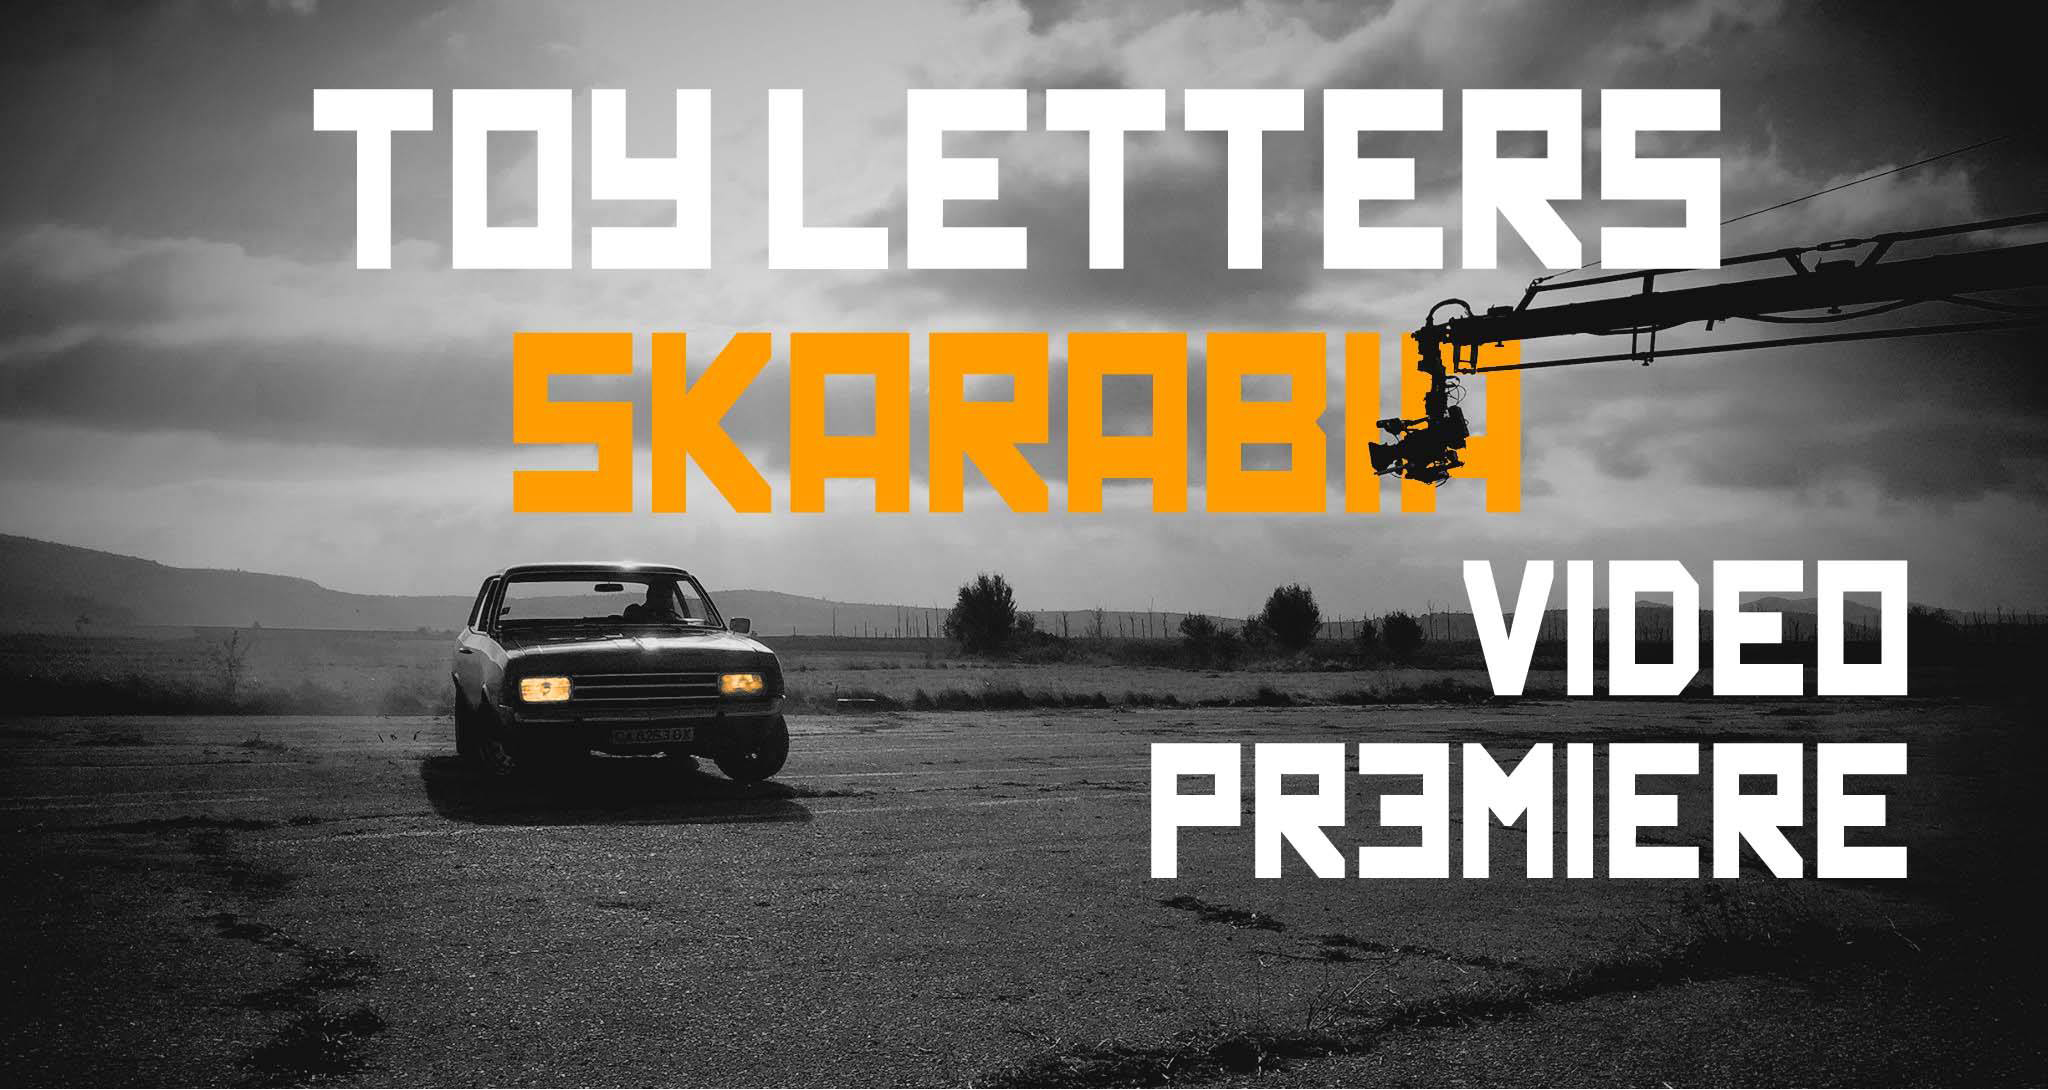
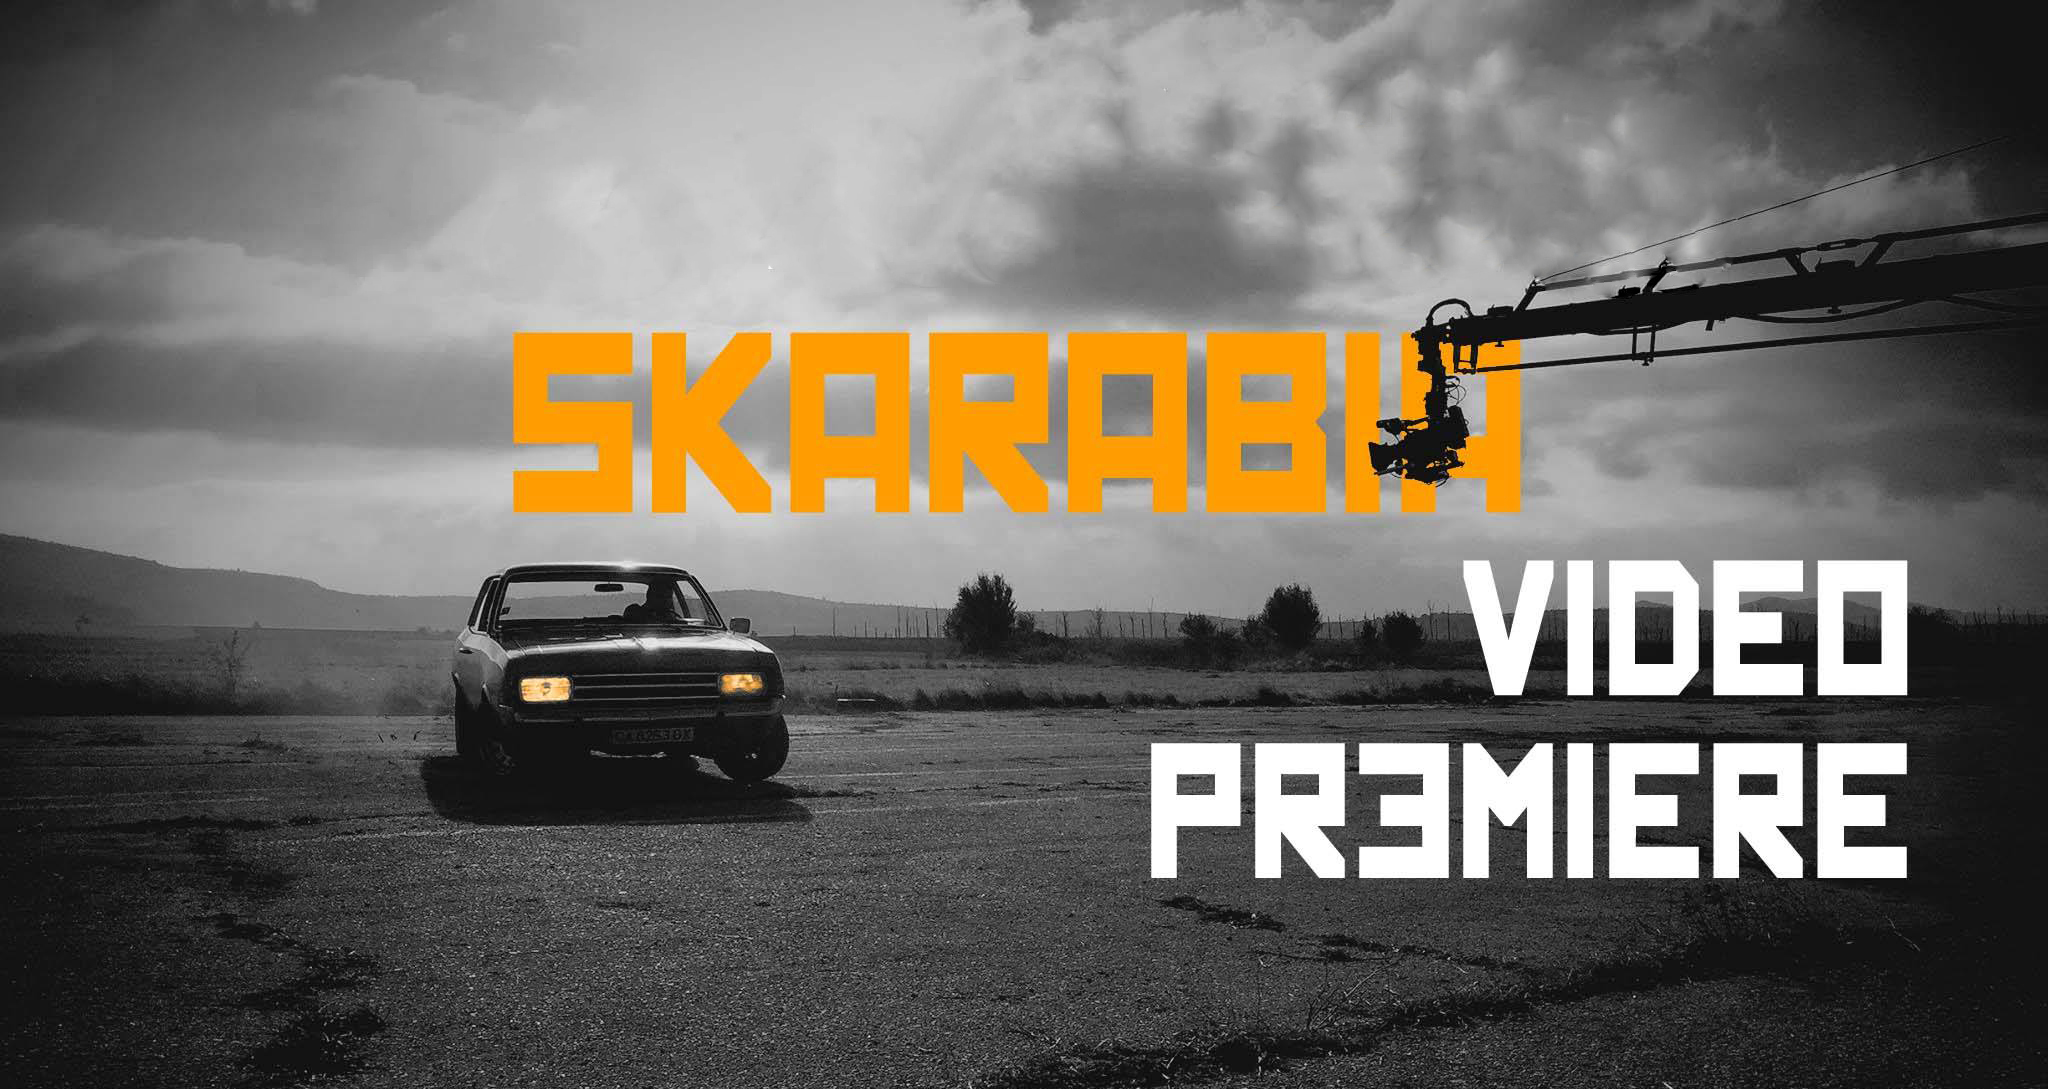
Added parallex scrolling

Changed region(s): [[0.1562, 0.0312, 0.8438, 0.2807]]

diff --git a/ToyLetters/css/main.css b/ToyLetters/css/main.css
@@ -5,16 +5,24 @@ body
     font-size: 20px;
 }
 
+body div, body li, body img{
+    transition: .6s ease-in-out;
+    -moz-transition: .6s ease-in-out;
+    -webkit-transition: .6s ease-in-out;
+    -o-transition: .6s ease-in-out;
+}
+
 #background-img-div{
   -webkit-background-size: cover;
   -moz-background-size: cover;
   -o-background-size: cover;
   background-size: cover;
   background-repeat: no-repeat;
-  transition: 1.5s ease-in-out;
-    -moz-transition: 1.5s ease-in-out;
-    -webkit-transition: 1.5s ease-in-out;
-    -o-transition: 1.5s ease-in-out;
+    background-position: 50% 50%;
+  transition: .6s ease-in-out;
+    -moz-transition: .6s ease-in-out;
+    -webkit-transition: .6s ease-in-out;
+    -o-transition: .6s ease-in-out;
     position: fixed;
     width: 100%;
     z-index: 0;
@@ -86,6 +94,13 @@ body
     margin: 0;
     padding: 0;
     overflow: hidden;
+    float: right;
+    position: absolute;
+    right: 0;
+    top: 0;
+    padding: 0;
+    line-height: 50px;
+    height: 80px;
 }
 
 .nav-ul-li a{
@@ -94,6 +109,38 @@ body
     text-align: center;
     padding: 14px 16px;
     text-decoration: none;
+}
+
+#nav-menu-button{
+    
+}
+
+#nav-menu-button div{
+    width: 50px;
+    height: 80px;
+    cursor: pointer;
+    position: relative;
+}
+
+#nav-menu-button div .nav-menu{
+    border-radius: 8px;
+    background-color: rgba(0,0,0,0.3);
+    height: 50px;
+    position: absolute;
+    top: 15px;
+}
+
+#nav-menu-button div .nav-menu div{
+    width: 40px;
+    height: 40px;
+    margin: auto;
+    position: absolute;
+    top: 20px;
+    left: 5px;
+    background-repeat: no-repeat;
+    background-size: cover;
+    background-image: url(../resources/images/icon-menu.png);
+    top: 5px;
 }
 
 .tilted{    

diff --git a/ToyLetters/index.html b/ToyLetters/index.html
@@ -14,20 +14,27 @@
 	<div id="navigation">
 		<div id="nav-content" class="content">
 			<div>
+				<div data-0="opacity: 1;" data-100="opacity: 0;" class="nav-ul-li left"><a id="nav-logo-a" href="#">Logo</a></div>
 				<ul class="nav-ul">
-					<li class="nav-ul-li left"><a id="nav-logo-a" href="#">Logo</a></li>
-					<li class="nav-ul-li right"><a href="#">Стартер</a></li>
-					<li class="nav-ul-li right"><a href="#">Шлагери</a></li>
-					<li class="nav-ul-li right"><a href="#">Картинки</a></li>
-					<li class="nav-ul-li right"><a href="#">За буквите</a></li>
-					<li class="nav-ul-li right"><a href="#">Поезии</a></li>
+					<li data-0="opacity: 0;" data-100="opacity: 1;" id="nav-menu-button" class="nav-ul-li right">
+						<div>
+							<div class="nav-menu">
+								<div></div>
+							</div>
+						</div>
+					</li>
+					<li data-0="opacity: 1;" data-100="opacity: 0;" class="nav-ul-li right"><a href="#">Стартер</a></li>
+					<li data-0="opacity: 1;" data-100="opacity: 0;" class="nav-ul-li right"><a href="#">Шлагери</a></li>
+					<li data-0="opacity: 1;" data-100="opacity: 0;" class="nav-ul-li right"><a href="#">Картинки</a></li>
+					<li data-0="opacity: 1;" data-100="opacity: 0;" class="nav-ul-li right"><a href="#">За буквите</a></li>
+					<li data-0="opacity: 1;" data-100="opacity: 0;" class="nav-ul-li right"><a href="#">Поезии</a></li>
 				</ul>
 			</div>
 		</div>
 	</div>
 
 	<div>
-		<div class="tilted">asdasd</div>
+		<div id="div-tilted" class="tilted"></div>
 	</div>
 
 	<div class="container">

diff --git a/ToyLetters/app/app.js b/ToyLetters/app/app.js
@@ -20,7 +20,7 @@
 
 	function resize() {
 		var div = document.getElementById('background-img-div');
-		div.style.height = window.innerHeight + 'px';
+		div.style.width = window.innerWidth + 'px';
 	};
 	changeBackgroundImage();
 	resize();
